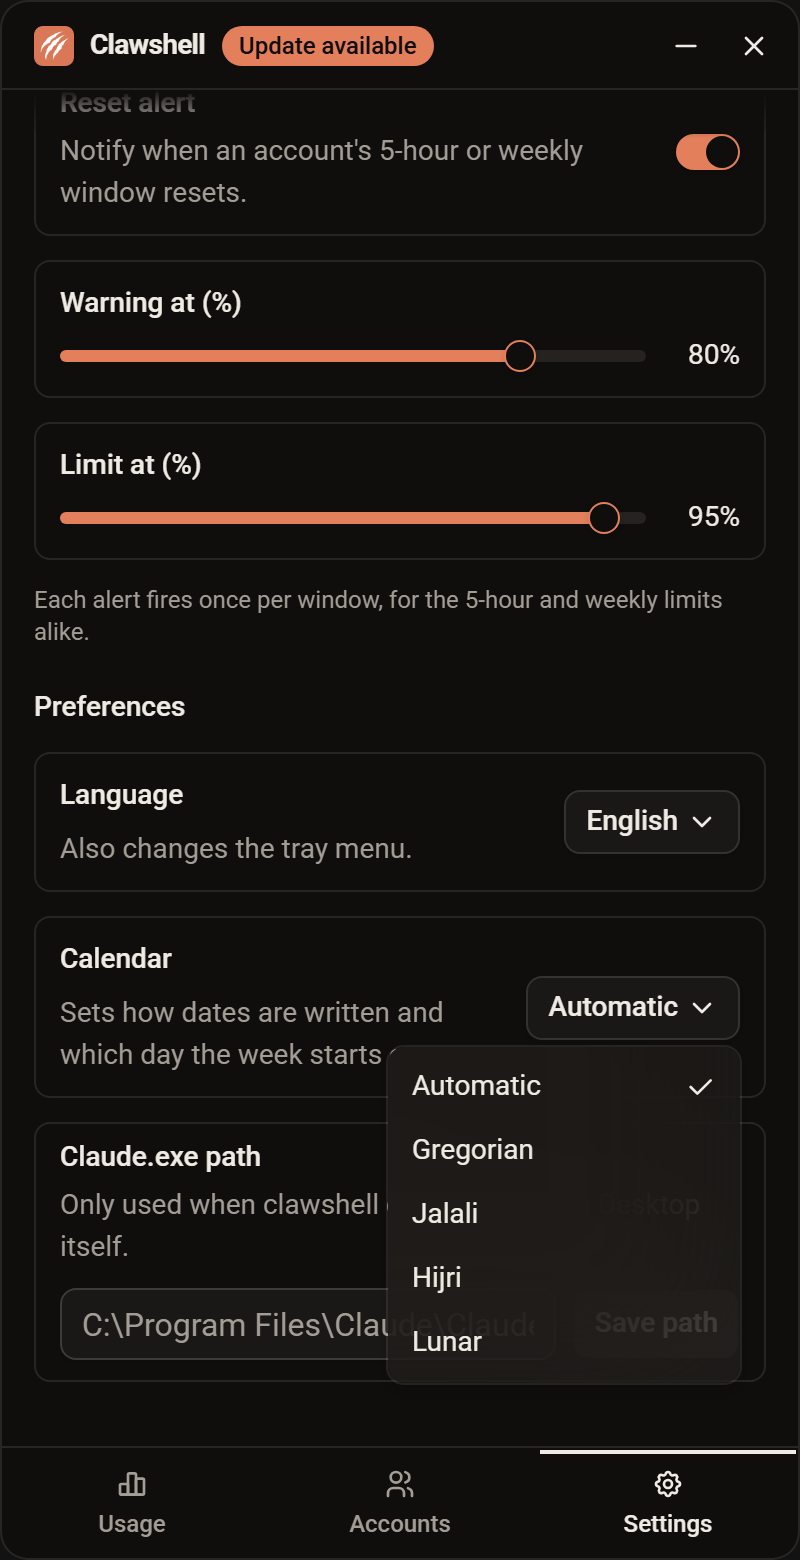
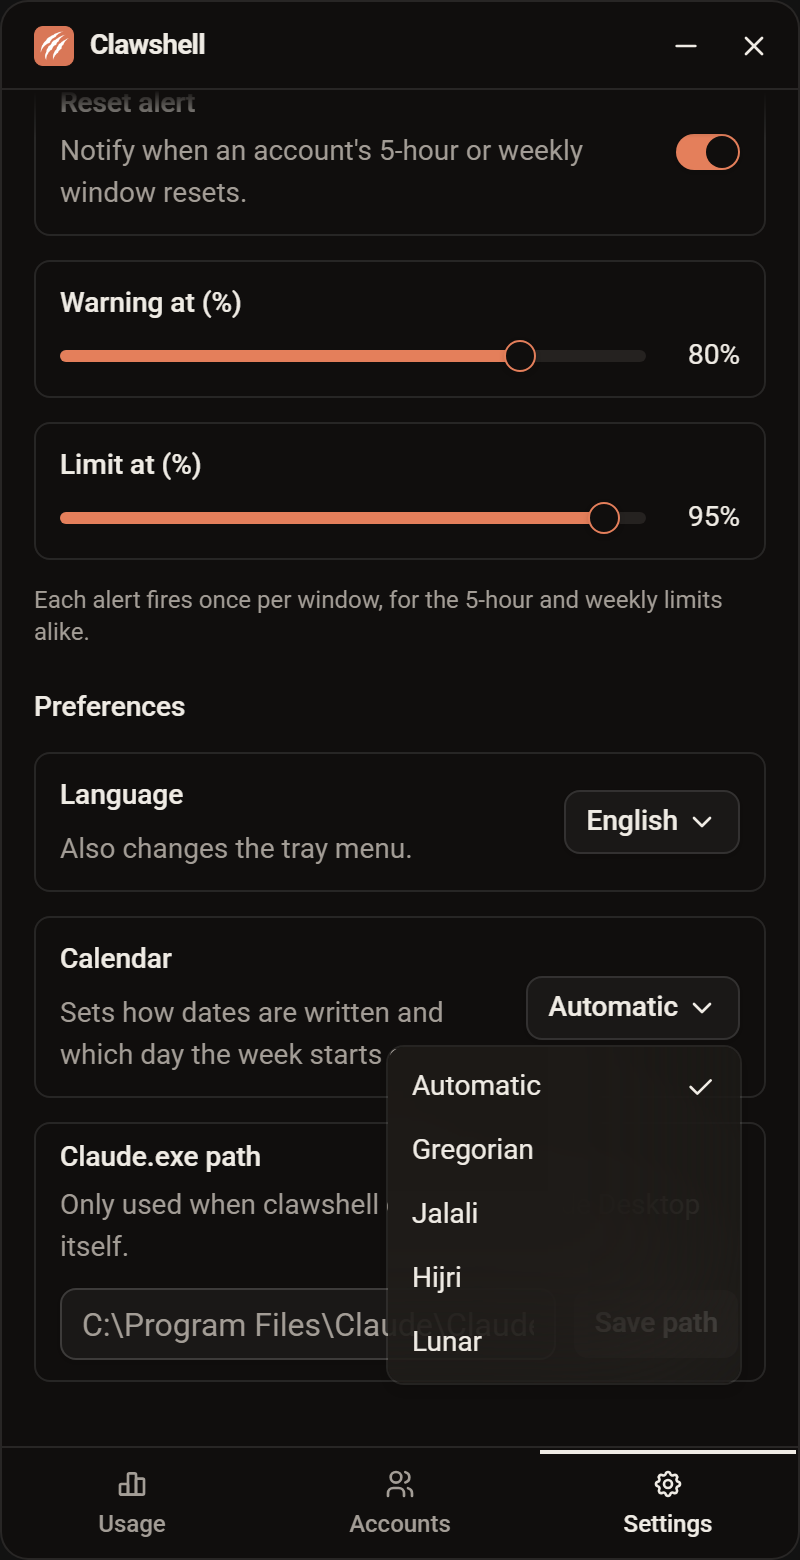
Hide "Update available" in README screenshots
The screenshot backend offered an update to every shot unless it set
noUpdate, which none did. It now offers one only when a shot sets
update, which just the update shot does, so the other headers are
clean. All screenshots are retaken, so they also show the combined
weekly and 5-hour usage bar.

Changed region(s): [[0.2812, 0.0, 0.5625, 0.0615]]

diff --git a/scripts/screenshots/mock.js b/scripts/screenshots/mock.js
@@ -1,5 +1,6 @@
 // Injected by capture.mjs before the app loads: a stand-in Tauri backend answering with sample data.
-// Config comes from window.__SHOT__ = { language, routingNeedsChoice, noUpdate }.
+// Config comes from window.__SHOT__ = { language, routingNeedsChoice, update }.
+// `update` offers a new version; without it the header shows no "Update available".
 // The accounts, usage, costs and sessions here are what the README screenshots show.
 (() => {
 	const cfg = window.__SHOT__ || {};
@@ -243,16 +244,16 @@
 		list_sessions: () => sessions,
 		new_account_defaults: () => ({ label: 'Account 5', colour: '#0891b2' }),
 		'plugin:updater|check': () =>
-			cfg.noUpdate
-				? null
-				: {
+			cfg.update
+				? {
 						rid: 1,
 						currentVersion: '0.2.0',
 						version: '0.3.0',
 						date: iso(now),
 						body: notes,
 						rawJson: {}
-					},
+					}
+				: null,
 		'plugin:event|listen': () => Math.floor(Math.random() * 1e9),
 		'plugin:event|unlisten': () => null,
 		'plugin:resources|close': () => null
